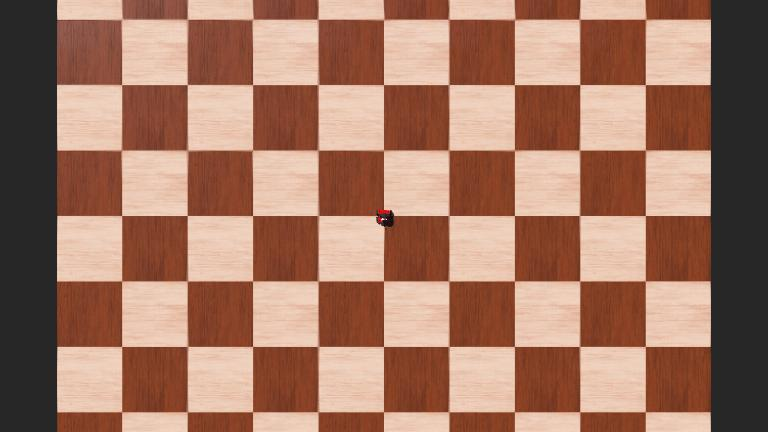
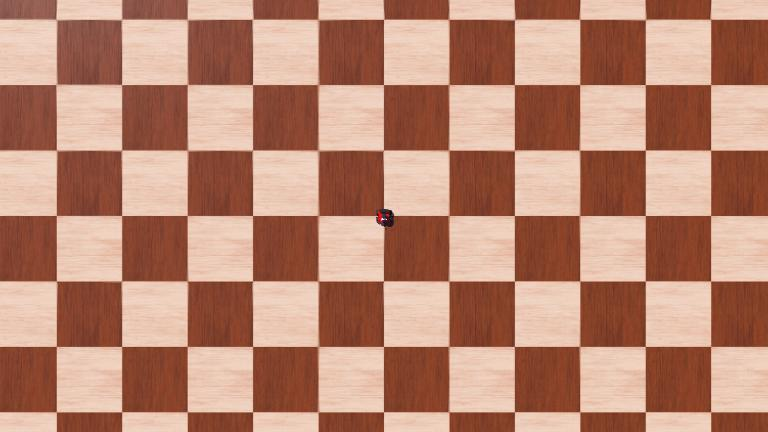
Adjusted starting world scale and added more functionality to adding landmarks

diff --git a/WebotsSim/libraries/RobotLib/Environment.py b/WebotsSim/libraries/RobotLib/Environment.py
@@ -30,7 +30,7 @@ class Maze:
             self.goal_locations.append(Goal(row['x'], row['y'], row['id']))
 
         for index, row in landmarks.iterrows():
-            self.landmarks.append(Landmark(row['x'], row['y'], color=[row['red'], row['green'], row['blue']], id=index))
+            self.landmarks.append(Landmark(row['x'], row['y'], height=row['height'] ,color=[row['red'], row['green'], row['blue']], id=index))
 
     # Returns random starting positions
     def get_random_starting_position(self):
@@ -131,13 +131,13 @@ class Obstacle:
 
 
 class Landmark:
-    def __init__(self, x, y, height=1.5, radius=.25, z=0.75, color=[1, 1, 1], id=0):
+    def __init__(self, x, y, height=1.5, radius=.25, color=[1, 1, 1], id=0):
         self.height = height
         self.radius = radius
         self.x = x
         self.y = y
-        self.z = z
-        self.translation = [x, y, z]
+        self.z = height/2
+        self.translation = [x, y, self.z]
         self.id = id
         self.color = color
 

diff --git a/WebotsSim/libraries/RobotLib/MazeAndPcsParcer.py b/WebotsSim/libraries/RobotLib/MazeAndPcsParcer.py
@@ -27,13 +27,13 @@ def parse_all_obsticles(xml_root):
 
 
 def parse_landmark(xml_landmark):
-    data = [[float(xml_landmark.get(data)) for data in ['x', 'y', 'red', 'green', 'blue']]]
-    return pd.DataFrame(data=data, columns=['x', 'y', 'red', 'green', 'blue'])
+    data = [[float(xml_landmark.get(data)) for data in ['x', 'y', 'height', 'red', 'green', 'blue']]]
+    return pd.DataFrame(data=data, columns=['x', 'y', 'height', 'red', 'green', 'blue'])
 
 
 def parse_all_landmarks(xml_root):
     return pd.concat(
-        [pd.DataFrame(columns=['x', 'y', 'red', 'green', 'blue'])] + [parse_landmark(xml_landmark) for xml_landmark in
+        [pd.DataFrame(columns=['x', 'y', 'height', 'red', 'green', 'blue'])] + [parse_landmark(xml_landmark) for xml_landmark in
                                                                       xml_root.findall('landmark')]).reset_index(
         drop=True)
 
